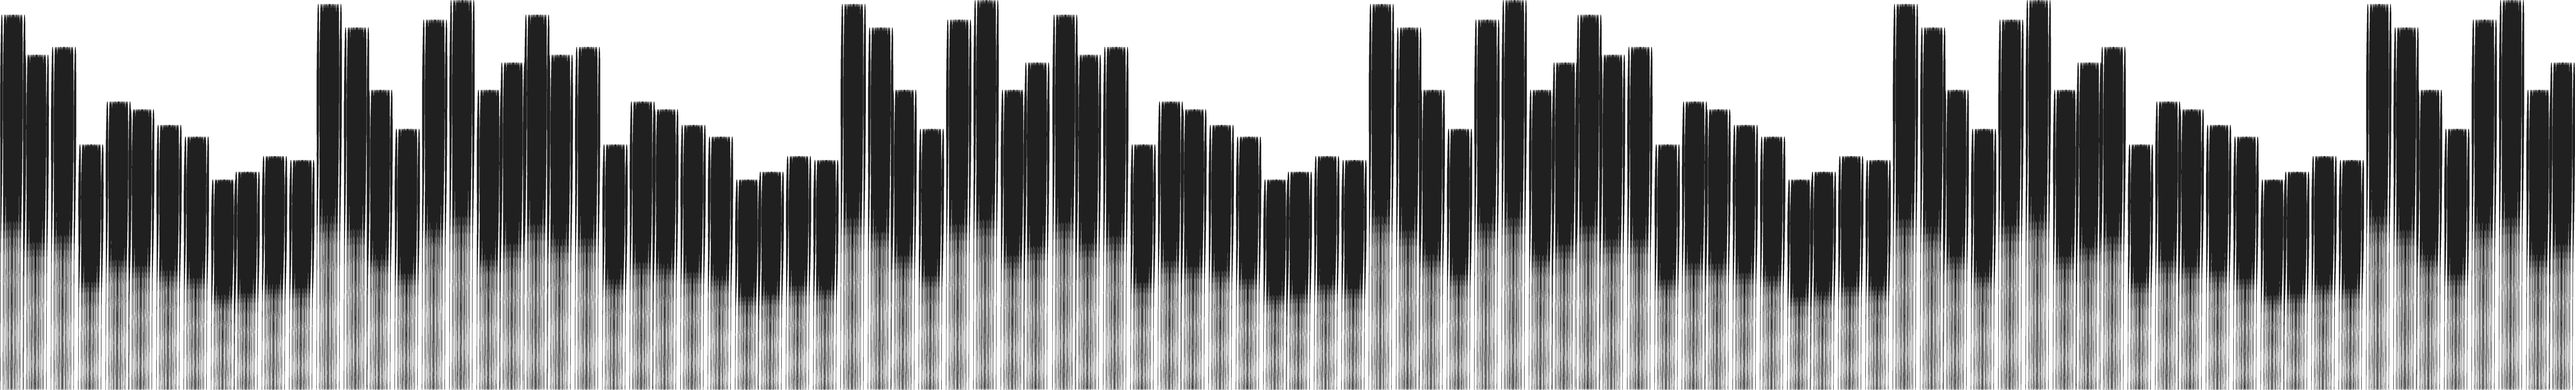
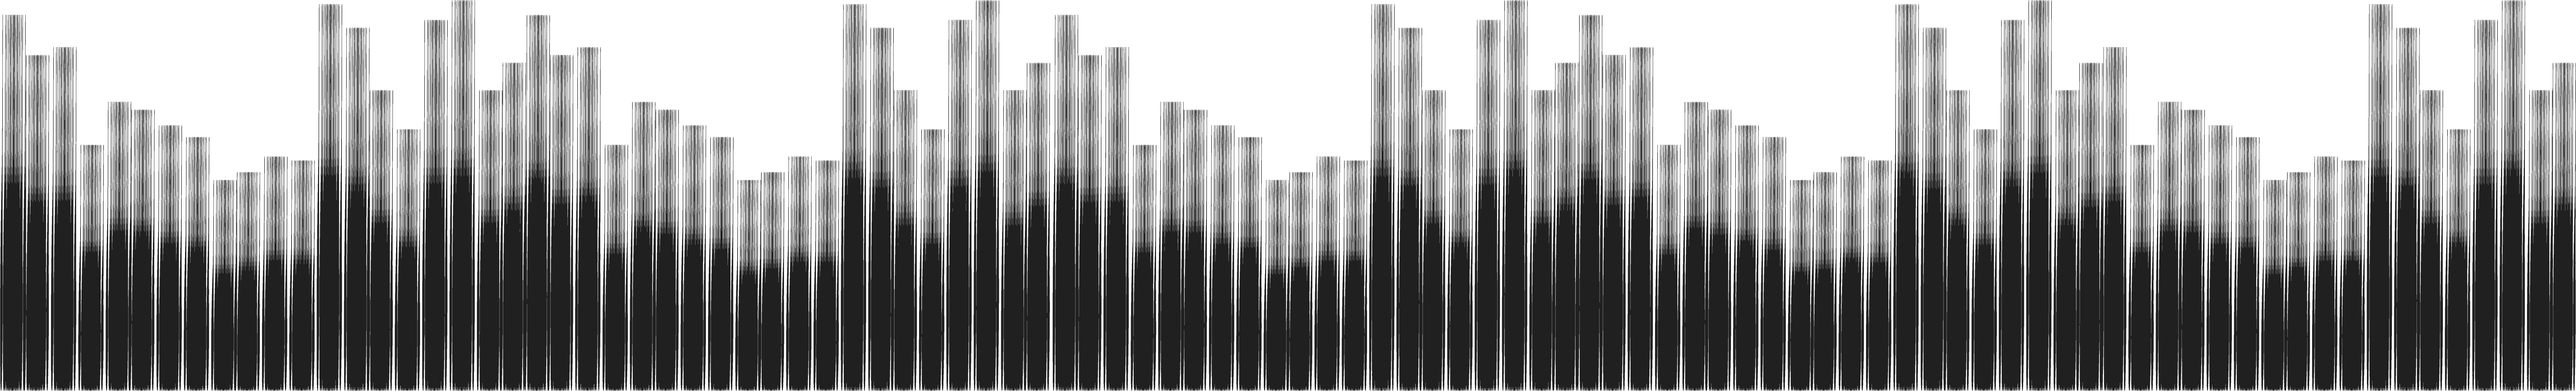
Typography&Spacing

diff --git a/timeline.html b/timeline.html
@@ -48,6 +48,7 @@
       <section class="grid-x align-center">
         <div class="cell">
       <h1>1992</h1>
+        <h2>
         <p>In Point Breeze, Pittsburgh, Pennsylvania, on January 19, 1992, Malcom James McCormick was born. His mother, Karen Meyers, a photographer, and father Mark McCormick an architect. He had an older brother named Miller.</p>
       </div>
     </section>
@@ -55,7 +56,9 @@
 
     <div class="panel">
       <section class="grid-x align-center">
-        <div class="cell">
+        <div class="cell medium-4">
+        </div>
+        <div class="cell medium-6">
       <h1>2007</h1>
         <h2>Easy Mac With the Cheesy Raps</h2>
           <p>Going by his first, original stage name of Easy Mac at the age of fifteen, he released his first mix tape But My Mackin’ Ain’t Easy.</p>
@@ -65,33 +68,36 @@
 
     <div class="panel">
       <section class="grid-x align-center">
-        <div class="cell">
+        <div class="cell medium-6">
       <h1>2009</h1>
         <h2>It Ain’t 2009 No More</h2>
           <p>Established himself as Mac Miller by releasing two more mixtapes: The Jukebox: Prelude to Class Clown and The High Life.</p>
+        </div>
+        <div class="cell medium-4">
         </div>
       </section>
     </div>
 
     <div class="panel">
       <section class="grid-x align-center">
-        <div class="cell medium-4">
+        <div class="cell medium-6">
       <h1>2010</h1>
         <p>Mac won the 21 & Under of the Year award as well as the Best Hip Hop Video for “Live Free” at the Pittsburgh Hip Hop Awards.</p> 
       </div>
-        <div class="cell medium-4 medium-offset-1">
+        <div class="cell medium-6">
       <h1>2010</h1>
         <p>Signed his first record label with Rostrum Records as a result of his mixtape K.I.D.S.</p> 
       </div> 
+    </section>
     </div>
 
     <div class="panel">
       <section class="grid-x align-center">
-        <div class="cell medium-4">
+        <div class="cell medium-6">
       <h1>2011</h1>
         <p>Mac Miller earned his place amongst other big name rappers on the “Freshmen Class” list published by XXL magazine.</p>
       </div>
-        <div class="cell medium-4 medium-offset-1">
+        <div class="cell medium-6">
       <h1>2011</h1>
         <p>Blue Slide Park, Mac’s debut studio album released on November 8th. This album made records as it sold 144,000 copies in its first week of sales and made its way to the top of the Billboard 200.</p>
       </div>
@@ -100,21 +106,23 @@
 
     <div class="panel">
       <section class="grid-x align-center">
-        <div class="cell">
+        <div class="cell medium-6">
       <h1>2012</h1>
         <p>His seventh mixtape, Macadelic, was released on March, 23rd.</p>
+      </div>
+        <div class="cell medium-4">
       </div>
     </section>
     </div>
 
      <div class="panel">
       <section class="grid-x align-center">
-        <div class="cell medium-4">
+        <div class="cell medium-6">
       <h1>2013</h1>
         <h2>REMeMber</h2>
           <p>In honor of a friend he lost, Miller founded the record label REMember Music whose primary focus was on artists in his hometown of Pittsburgh. He also used this record label to release songs under his various other alter-ego’s including Larry Lovestein and Delusional Thomas.</p>
         </div> 
-        <div class="cell medium-4 medium-offset-1">
+        <div class="cell medium-6">
       <h1>2013</h1>
         <h2>The Best Day Ever</h2>
           <p>September 20th was declared “Mac Miller Day” by Pittsburgh mayor Luke Ravenstahl who presented Mac with a key to the city.</p>
@@ -133,7 +141,9 @@
 
     <div class="panel">
       <section class="grid-x align-center">
-        <div class="cell">
+        <div class="cell medium-4">
+        </div>
+        <div class="cell medium-6">
       <h1>2015</h1>
         <p>Mac Miller released his major label debut album GO:OD AM on September 18th. It reached the number four spot on the Billboard 200 and the album along with its single “Weekend”, were certified gold and platinum by the RIAA.</p>
       </div>
@@ -151,11 +161,11 @@
 
     <div class="panel">
       <section class="grid-x align-center">
-        <div class="cell medium-4">
+        <div class="cell medium-6">
       <h1>2018</h1>
         <p>Swimming, released on August 3rd, was his fifth and what became his last studio album. This was also his fifth consecutive top-five charting album on the Billboard 200.</p>
       </div>
-        <div class="cell medium-4 medium-offset-1">
+        <div class="cell medium-6">
       <h1>2018</h1>
         <p>On September 7th at the age of 26, Malcom McCormick passed of an accidental drug overdose. This was just before his Swimming tour was set to begin.</p>
       </div>

diff --git a/css/app.css b/css/app.css
@@ -1,1 +1,1 @@
-header{padding:1%}header h1{font-family:chelsea-market-open, sans-serif}header h2{font-family:chelsea-market-open, sans-serif;font-size:2.2rem}header nav{font-family:chelsea-market-pro, sans-serif}main h1{font-family:chelsea-market-pro, sans-serif}main h2{font-family:mr-eaves-sans, sans-serif;font-weight:400;font-style:normal}*{box-sizing:border-box}main{overflow:hidden}.wrapper{display:flex;flex-wrap:nowrap;transition:all 1s}.panel{position:relative;width:100vw;height:90vh;padding:1.5rem}h1{font-size:2.5rem;letter-spacing:-2px}ul{display:flex;justify-content:flex-end;height:10vh;margin:0;padding:1rem;list-style:none}ul li{margin:auto .5rem;font-weight:100;font-size:.875rem;letter-spacing:1px;color:#fff}ul li:hover{cursor:pointer;color:#ccc}
+header{padding:1%}header h1{font-family:chelsea-market-pro, sans-serif}header h2{font-family:chelsea-market-pro, sans-serif;font-size:2.2rem}header nav{font-family:chelsea-market-pro, sans-serif}main h1{font-family:chelsea-market-pro, sans-serif;font-size:1rem}main h2{font-family:chelsea-market-open, sans-serif;font-size:3rem}p{font-family:objektiv-mk1, sans-serif}*{box-sizing:border-box}main{overflow:hidden}.wrapper{display:flex;flex-wrap:nowrap;transition:all 1s}.panel{position:relative;width:100vw;height:90vh;margin-top:.5%;background-image:url("../img/timeline2.png");background-size:80%;background-repeat:repeat-x;background-position:bottom left}ul{display:flex;justify-content:flex-end;height:10vh;margin:0;padding:1rem;list-style:none}ul li{margin:auto .5rem;font-weight:100;font-size:.875rem;letter-spacing:1px;color:#fff}ul li:hover{cursor:pointer;color:#ccc}main .main{padding-top:20%;padding-left:30%;padding-right:30%}.panel h1{padding-left:30%}.panel h2{padding-left:30%}.panel p{padding-left:30%;padding-right:30%;padding-bottom:0%}

diff --git a/scss/_typography.scss b/scss/_typography.scss
@@ -1,10 +1,10 @@
 header {
 	h1 {
-		font-family: chelsea-market-open, sans-serif;
+		font-family: chelsea-market-pro, sans-serif;
 	}
 
 	h2 {
-		font-family: chelsea-market-open, sans-serif;
+		font-family: chelsea-market-pro, sans-serif;
 		font-size: 2.2rem;
 	}
 	nav {
@@ -15,12 +15,15 @@ header {
 main {
 	h1 {
 		font-family: chelsea-market-pro, sans-serif;
+		font-size: 1rem;
 		
 	}
 	h2 {
-		font-family: mr-eaves-sans, sans-serif;
-		font-weight: 400;
-		font-style: normal;
+		font-family: chelsea-market-open, sans-serif;
+		font-size: 3rem;
 	}
 }
 
+p {
+	font-family: objektiv-mk1, sans-serif;
+}

diff --git a/index.html b/index.html
@@ -8,7 +8,6 @@
     <link rel="stylesheet" href="css/app.css">
     <link rel="stylesheet" href="https://use.typekit.net/odm1eyz.css">
 
-
   </head>
   <body>
 
@@ -28,7 +27,7 @@
 
       <div class="grid-container">
 
-    <section class="grid-x align-center">
+    <section class="main align-center">
       <div class="cell medium-6">
         <p>Rapper. Singer. Songwriter. Producer. Sixty-one music videos. Forty singles. Thirteen mixtapes. Five studio albums. Two extended plays. Two live albums.</p>
         <a href="timeline.html">Explore the Story</a>

diff --git a/scss/_timeline-item.scss b/scss/_timeline-item.scss
@@ -18,12 +18,12 @@ main {
   position: relative;
   width: 100vw;
   height: 90vh;
-  padding: $baseunit*3;
-  }
   
-  h1 {
-    font-size: $baseunit*5;
-    letter-spacing: -2px;
+  margin-top: .5%;
+  background-image: url("../img/timeline2.png");
+  background-size: 80%;
+  background-repeat: repeat-x;
+  background-position: bottom left;
   }
 
 ul {
@@ -46,3 +46,4 @@ ul {
     }
   }
 }
+

diff --git a/scss/_vars.scss b/scss/_vars.scss
@@ -1,0 +1,21 @@
+main {
+	.main {
+		padding-top: 20%;
+		padding-left: 30%;
+		padding-right: 30%;
+	}
+}
+
+.panel {
+	h1{
+		padding-left: 30%;
+	}
+	h2{
+		padding-left: 30%;
+	}
+	p{
+		padding-left: 30%;
+		padding-right: 30%;
+		padding-bottom: 0%;
+	}
+}
